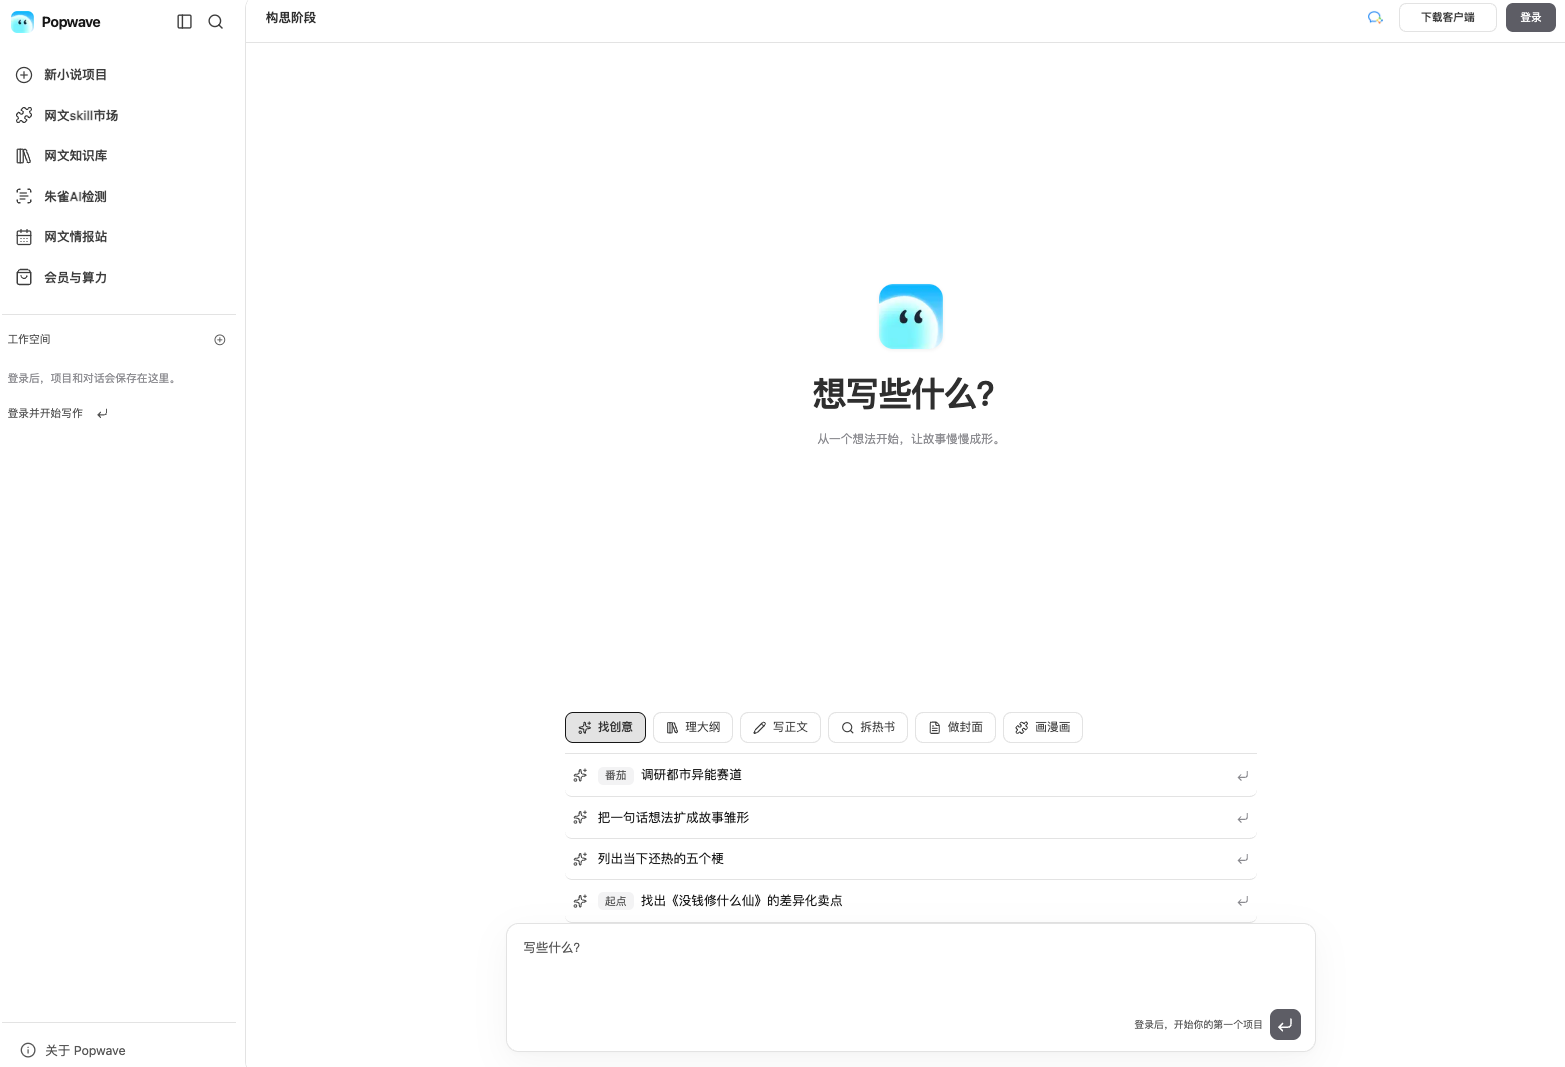
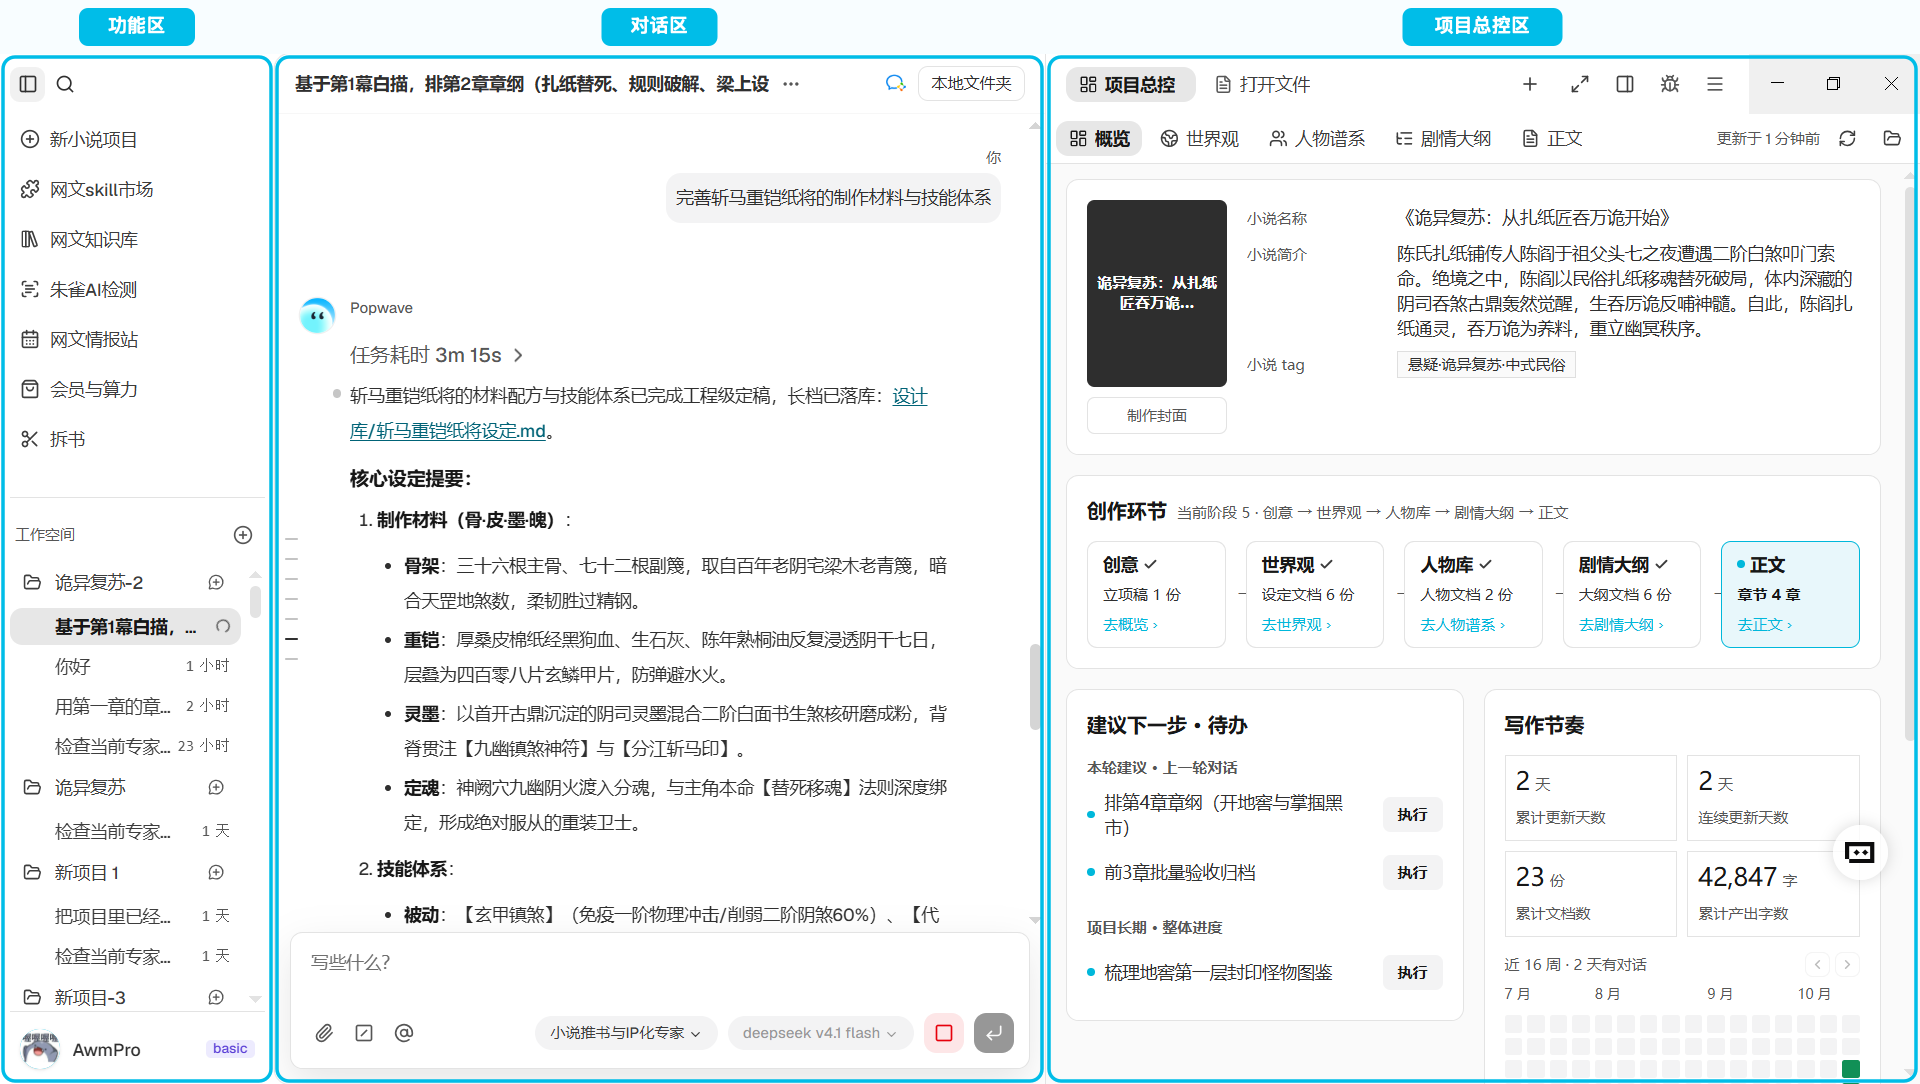
Update Popwave workspace hero image

diff --git a/README.md b/README.md
@@ -6,7 +6,7 @@
 
 有了一个想法，接下来还要判断它适合什么赛道、怎样搭出能持续推进的结构、如何写正文，以及写完后到哪里找投稿机会。**Popwave 把这些环节放进同一个网文创作工作区**：它能查资料、调用专业 Skill 和写作专家、推进小说项目，也能帮助作者把作品做成封面与漫画。
 
-[![Popwave 网页版创作工作区：找创意、理大纲、写正文、拆热书与制作视觉素材](docs/popwave-work.png)](https://popwave.cn/work/)
+[![Popwave 工作区：功能区、对话区、项目总控区](docs/popwave-work.png)](https://popwave.cn/work/)
 
 ## Popwave 能陪你做什么
 
@@ -187,7 +187,7 @@ cp -R long-novel-architect ~/.codex/skills/
 README.md
 LICENSE                                      MIT 开源许可
 docs/seven-structures.png                     七种方法总览图
-docs/popwave-work.png                          Popwave 网页版工作区截图
+docs/popwave-work.png                          Popwave 工作区三区域示意图
 long-novel-architect/
 ├── SKILL.md                                   执行流程与交付门槛
 ├── references/structure-guide.md              七种方法的操作、验收与来源
